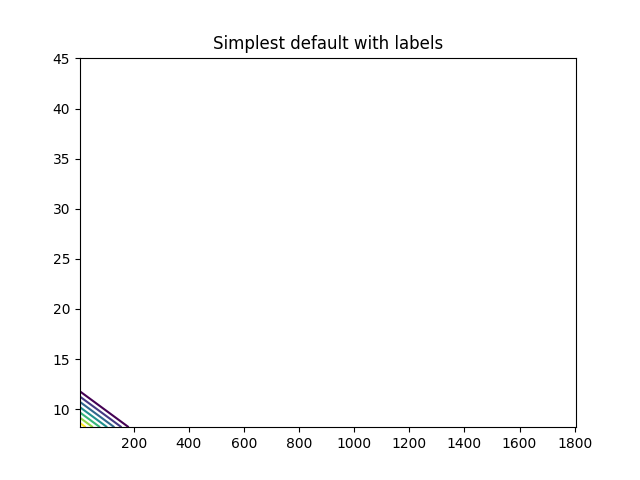
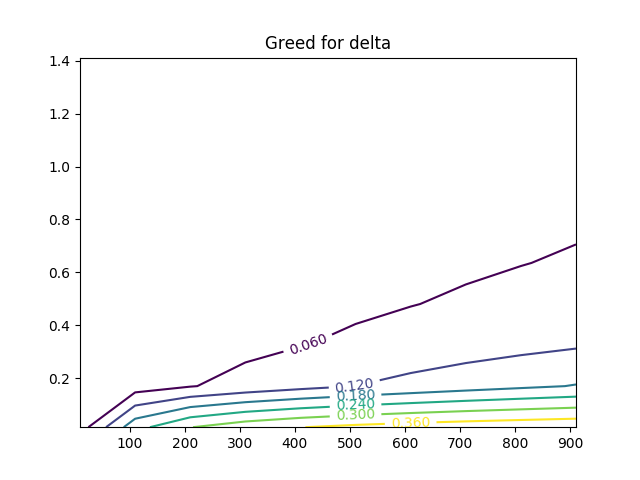
Работающая версия оптимизации по углу
Для сетки

diff --git a/Расчет кривых f_2 ver 3.py b/Расчет кривых f_2 ver 3.py
@@ -15,7 +15,7 @@ def in_file(Q_acb, P_pv_max, angle, data_base):
     
     f.close()
 
-def find_f(angle, P_pv, Q_acb, data_base):
+def find_f(P_pv, Q_acb, angle, data_base):
     in_file(Q_acb*3.6, P_pv, angle, data_base)
     
     if (data_base == 'NASA'):
@@ -44,13 +44,13 @@ def find_P_pv_min():
     
     return P_pv_min
 
-def bisection(P, Q, f_wanted, angle):
+def bisection(P, Q, f_wanted):
     Q_1 = 0
     Q_2 = Q
     f_new = 1
     while (f_new > 0.9999*f_wanted) or (f_new < 0.999*f_wanted):
         Q_new = (Q_1 + Q_2)/2
-        f_new = find_f(P, Q_new, angle, 'WRDC')
+        f_new = find_f(P, Q_new, 'WRDC')
         if f_new > 0.9999*f_wanted:
             Q_2 = Q_new
         if f_new < 0.999*f_wanted:
@@ -72,20 +72,55 @@ def plot_df(Q_arr, P_pv_arr, delta):
     
     x = Q_arr
     y = P_pv_arr
-    X, Y = np.meshgrid(x, y)
     Z = delta
-
+    f_f = False
+              
+    X, Y = np.meshgrid(x, y)
+    
     plt.figure()
     CS = plt.contour(X, Y, Z)
     plt.clabel(CS, inline=1, fontsize=10)
-    plt.title('Simplest default with labels')
+    plt.title('Greed for delta')
     
     plt.savefig('Greed for delta.png')   
+    
+    
+def find_array_f(n, k, P_pv_arr, Q_max, data_base):
+    
+    Q_arr = [i for i in range(5, Q_max + 1, Q_max // k)]
+    
+    f = open('Доля покрытия нагрузки ' + data_base + '.csv', 'w')
+    f_arr = []
+    
+    f.write(";")
+    for i in range(n):    
+        f.write("%s;" % round(P_pv_arr[i], 2))
+    f.write('\n')
+        
+    for i in range(k):
+        print('k = ', i)
+        section = []
+        f.write("%s;" % Q_arr[i])
+        f_1=False
+        for j in range(n):
+            print('n = ', j)
+            print('\n')
+            if(f_1==False):
+                section.append(round(find_f(P_pv_arr[j], Q_arr[i], data_base),3))
+                if(section[j]==1.0):
+                    f_1=True
+            else:
+                section.append(1.0)
+            f.write("%s;" % round(section[j], 3))
+        f_arr.append(section)
+        f.write('\n')
+    
+    f.close()    
+    return f_arr
 
 def lines_for_different_f(Q, f_wanted, P_pv_min, dots_number):    
     Q_last = []
-    P_pv_arr = []
-    angle_in = 57
+    P_pv_arr = []   
     
     Q_arr = [[0] * dots_number for i in range(len(f_wanted))]
     P_pv_arr = [[0] * dots_number for i in range(len(f_wanted))]
@@ -112,21 +147,20 @@ def lines_for_different_f(Q, f_wanted, P_pv_min, dots_number):
             
             result.write("%s " % round(P_pv_arr[j][i], 4))
                 
-            #if i == 0:
-                #Q_arr[j][i] = ( bisection(P_pv_arr[j][i], Q, f_wanted[j], angle) )
-                #print('Расчет ', j)
-                #Q = Q_arr[j][i]
-                #Q_last.append(Q)
-            #else:
-                #Q_arr[j][i] = ( bisection(P_pv_arr[j][i], Q_last[j], f_wanted[j], angle) )
-                #Q_last[j] = Q_arr[j][i]
-            
-            #func = lambda x, y: x + y                
-            delta_f_wanted_and_f = lambda angle_P_pv: delta_f_w_and_f(angle_P_pv, f_want = f_wanted[j], Q_acb = Q_arr[i])
-            res = minimize(delta_f_wanted_and_f, [angle_in, P_pv_arr[j][i]], method = 'COBYLA', options={'disp': True, 'maxiter': 5})      
+            if i == 0:
+                Q_arr[j][i] = ( bisection(P_pv_arr[j][i], Q, f_wanted[j]) )
+                print('Расчет ', j)
+                Q = Q_arr[j][i]
+                Q_last.append(Q)
+                #f_in_nasa.append([])
+            else:
+                Q_arr[j][i] = ( bisection(P_pv_arr[j][i], Q_last[j], f_wanted[j]) )
+                Q_last[j] = Q_arr[j][i]
+                
             
             result.write("%s " % round(Q_arr[j][i], 4))
-            result.write("%s\n" % round(res.fun, 4))
+            #f_in_nasa[j].append(find_f(P_pv_arr[j][i], Q_arr[j][i], 'NASA'))
+            result.write("%s\n" % round(find_f(P_pv_arr[j][i], Q_arr[j][i], 'NASA'), 4))
             
             result.close()
   
@@ -135,12 +169,7 @@ def lines_for_different_f(Q, f_wanted, P_pv_min, dots_number):
     #graph_df_f(f_in_nasa, f_wanted)
     print('Finish!')
 
-def delta_f_w_and_f(angle_P_pv, f_want, Q_acb):
-    return f_want - find_f(float(angle_P_pv[0]), float(angle_P_pv[1]), Q_acb, 'NASA')
-
-
 def delta(angle, P_pv, Q_acb):
-    print('Delta\n')
     return (find_f(P_pv, Q_acb, angle, 'NASA') - find_f(P_pv, Q_acb, angle, 'WRDC'))/find_f(P_pv, Q_acb, angle, 'WRDC')
 
 def grid_for_df(Q, P_pv_min, number_of_lines, number_of_columns):
@@ -151,7 +180,7 @@ def grid_for_df(Q, P_pv_min, number_of_lines, number_of_columns):
     
     P_pv_arr = []
     for i in range(number_of_lines):
-        P_pv_arr.append((0.4+0.2*i)*P_pv_min)
+        P_pv_arr.append((0.001+0.001*i)*P_pv_min)
 
     f = open('Относительная погрешность f.csv', 'w')
     f.write(";")
@@ -160,7 +189,7 @@ def grid_for_df(Q, P_pv_min, number_of_lines, number_of_columns):
         f.write("%s;" % round(P_pv_arr[i], 2))
     f.write('\n')
     
-    Q_arr = [i for i in range(5, Q + 1, Q // number_of_columns)]
+    Q_arr = [i for i in range(10, Q + 1, Q // number_of_columns)]
     
     for i in range(number_of_columns):
         print('column #', i)
@@ -174,11 +203,13 @@ def grid_for_df(Q, P_pv_min, number_of_lines, number_of_columns):
                 delta_f[i][j] = 0
             else:
                 delta_fun = lambda angle: delta(angle, P_pv = P_pv_arr[j], Q_acb = Q_arr[i])
-                res = minimize(delta_fun, angle_in, method = 'COBYLA', bounds = (0, 180), options={'disp': True, 'maxiter': 5})
+                res = minimize(delta_fun, angle_in, method = 'COBYLA', bounds = (0, 180), options={'disp': True, 'maxiter': 3})
+                #callback, **options
                 delta_f[i][j] = res.fun
                 if (delta_f[i][j] == 0):
                     f_1 = True
                 print(type(delta_f[i][j]))
+                #delta(P_pv, Q_acb, angle)
                 print('Finish angle is: ', res.x, '\n')
             f.write("%s;" % round(delta_f[i][j], 3))
         f.write('\n')  
@@ -191,7 +222,7 @@ def grid_for_df(Q, P_pv_min, number_of_lines, number_of_columns):
 
 def main():
     print('Start')
-    Q = 2000 #емкость аккумулятора
+    Q = 1000 #емкость аккумулятора
     P_pv_nom = 200 #пиковая мощность фэп в Ваттах
     f_wanted = [1.0, 0.95, 0.9, 0.85]
     number_of_lines = 10
@@ -206,7 +237,6 @@ def main():
     grid_for_df(Q, P_pv_min, number_of_lines, number_of_columns)
     
 main()
-
 
 
 
